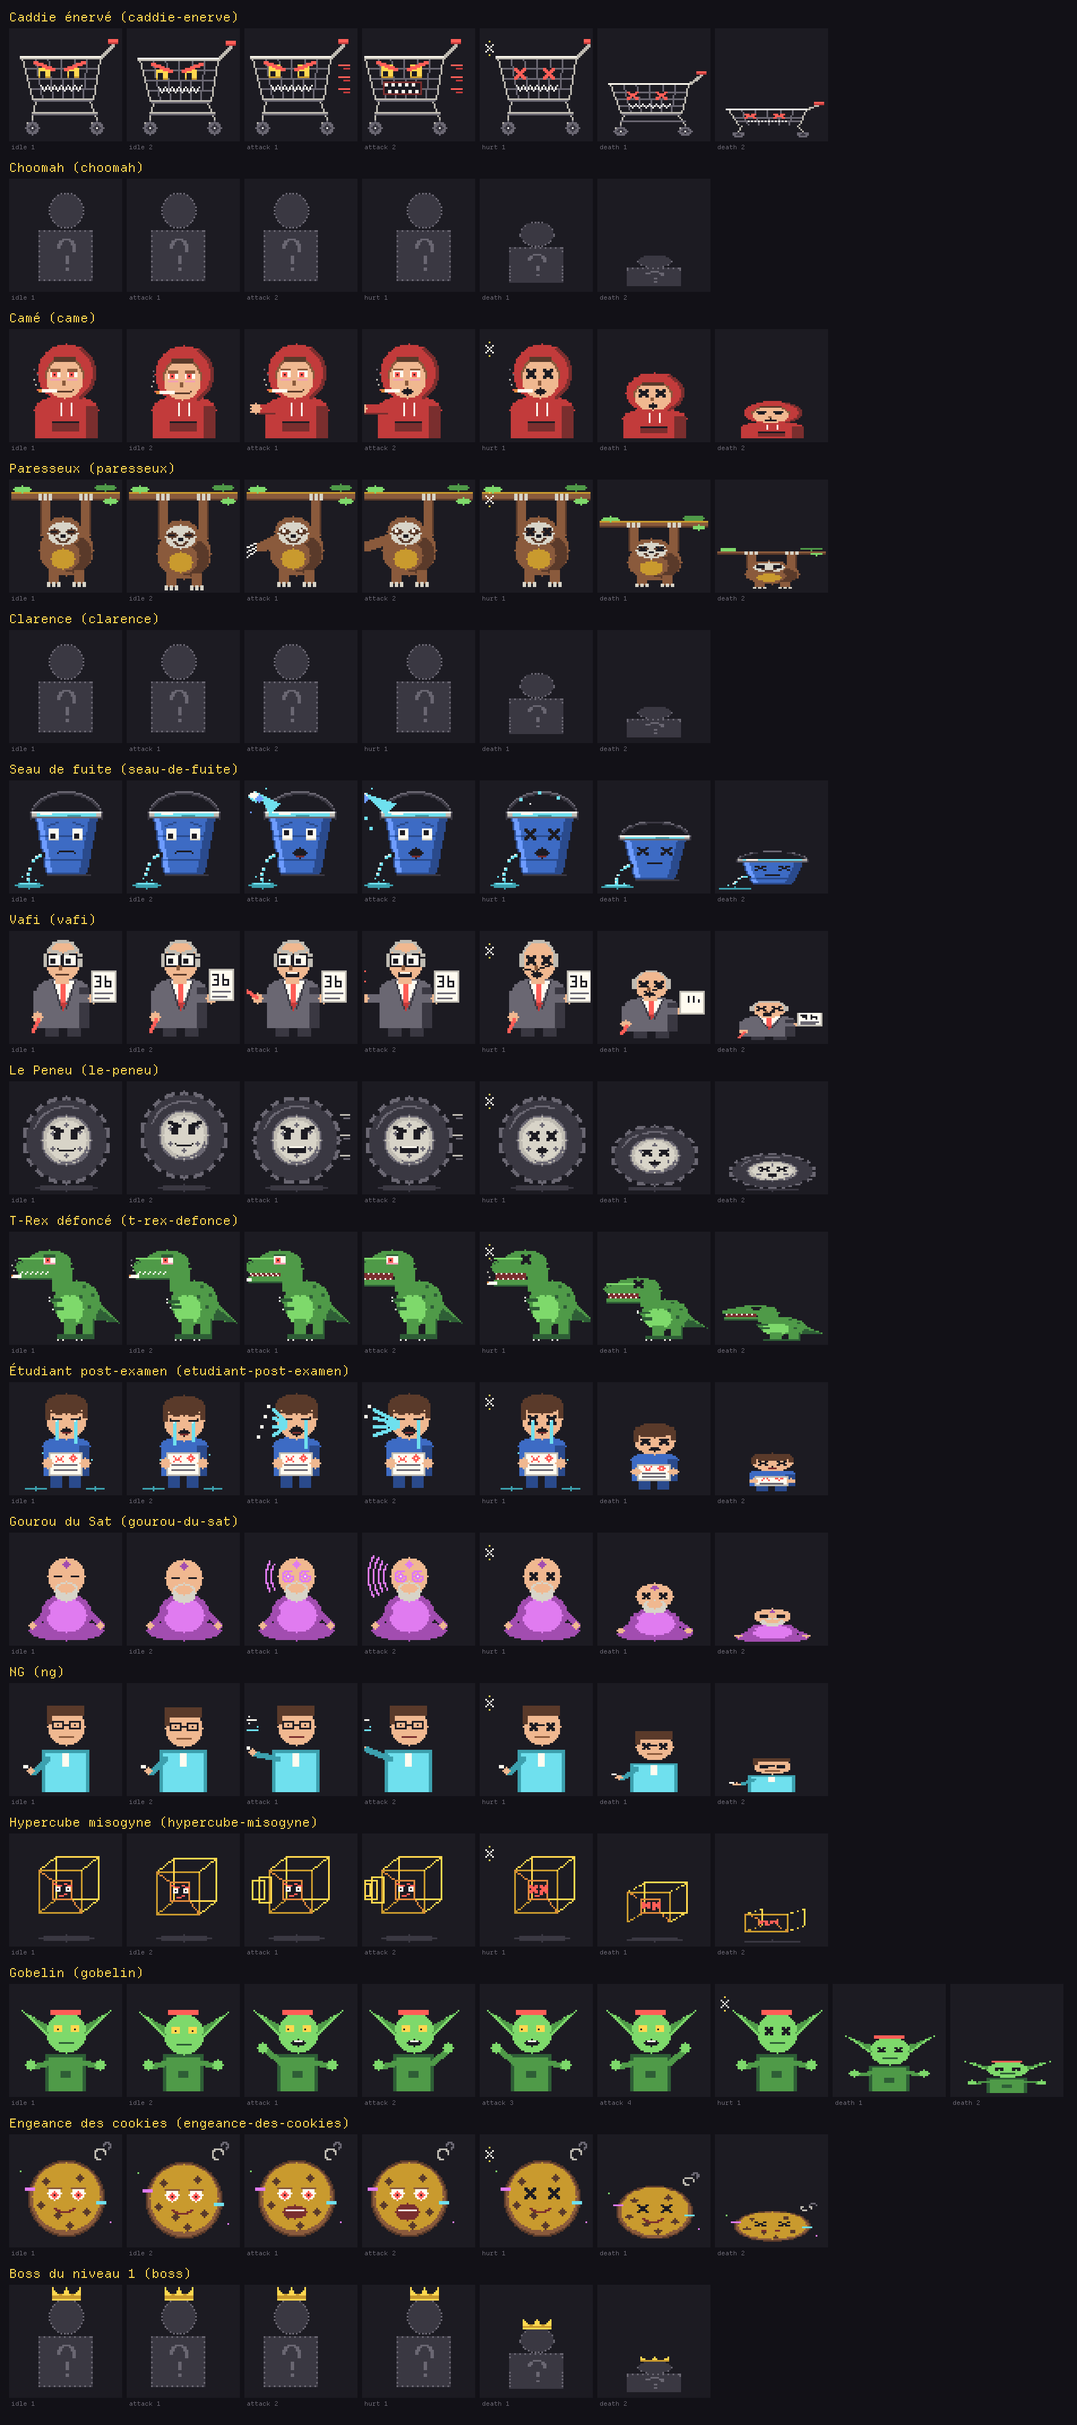
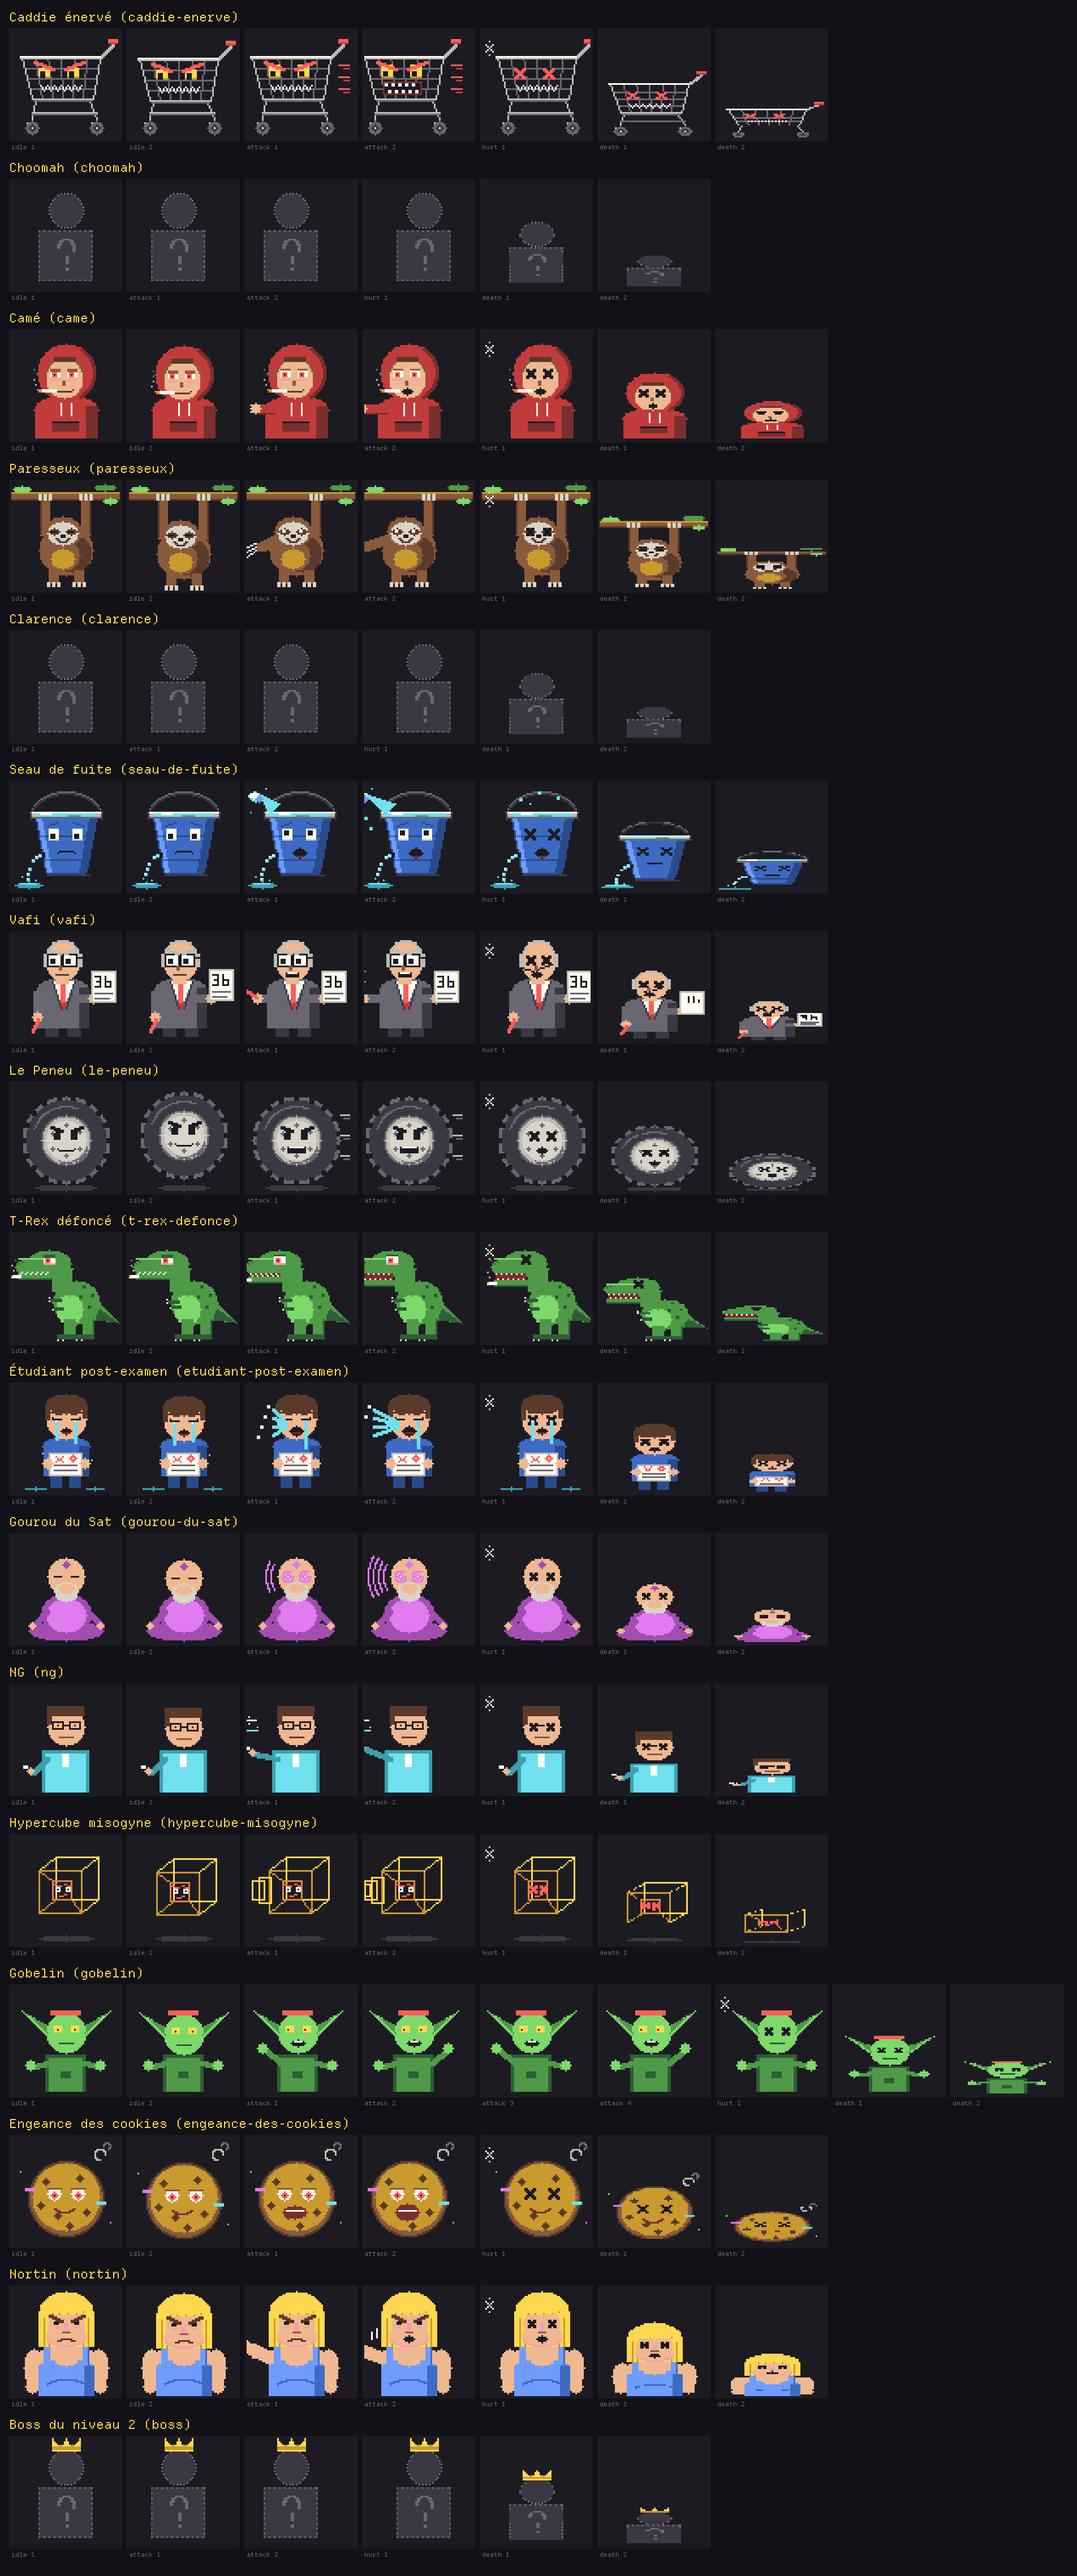
Dessine Nortin : sprite de la fenêtre et sprite ASCII
Dessin Lua dans art/tools/enemies.lua (cheveux blonds, débardeur bleu, gifle à l'attaque), exporté par Aseprite (idle, attack, hurt, death) ; sprite ASCII pour le terminal et le mode texte. Nortin utilise son propre sprite ; les boss des niveaux 2 et 3 gardent le sprite commun.

diff --git a/src/test/java/cardistry/ui/sprite/SpriteTest.java b/src/test/java/cardistry/ui/sprite/SpriteTest.java
@@ -84,7 +84,7 @@ class SpriteTest {
     @Test
     void spritesOriginauxAnimes() {
         for (String id : List.of("caddie-enerve", "came", "paresseux", "seau-de-fuite", "vafi", "le-peneu",
-                "t-rex-defonce", "etudiant-post-examen")) {
+                "t-rex-defonce", "etudiant-post-examen", "nortin")) {
             Sprite sprite = Sprites.byId(id).orElseThrow();
             assertTrue(sprite.idle().size() >= 2 && sprite.idle().size() <= 3, id + " : 2-3 frames idle");
             assertFalse(sprite.frames(Sprite.ATTACK).isEmpty(), id + " : attaque");
@@ -95,23 +95,26 @@ class SpriteTest {
     @Test
     void spritesEnAsciiPurDansLaZoneEtCouleursValides() throws IOException {
         for (Map.Entry<String, Sprite> entry : Sprites.catalog()) {
-            Sprite sprite = entry.getValue();
-            String raw = read(entry.getKey());
-            for (String line : raw.lines().toList()) {
-                if (line.startsWith("@name") || line.startsWith("@#")) {
-                    continue; // le nom peut avoir des accents : il n'est pas dessiné tel quel
-                }
-                assertTrue(line.chars().allMatch(c -> c >= 32 && c < 127), entry.getKey() + " : non ASCII : " + line);
+            assertAsciiInZoneWithValidColors(entry.getKey(), entry.getValue());
+        }
+    }
+
+    private static void assertAsciiInZoneWithValidColors(String id, Sprite sprite) throws IOException {
+        String raw = read(id);
+        for (String line : raw.lines().toList()) {
+            if (line.startsWith("@name") || line.startsWith("@#")) {
+                continue; // le nom peut avoir des accents : il n'est pas dessiné tel quel
             }
-            for (String animation : sprite.animations()) {
-                for (Sprite.Frame frame : sprite.frames(animation)) {
-                    assertTrue(frame.lines().size() <= Sprite.MAX_HEIGHT, entry.getKey() + " trop haut");
-                    assertTrue(frame.width() <= Sprite.MAX_WIDTH, entry.getKey() + " trop large");
-                    if (frame.colors() != null) {
-                        for (String colors : frame.colors()) {
-                            assertTrue(colors.chars().allMatch(c -> COLOR_LETTERS.contains((char) c)),
-                                    entry.getKey() + " : couleur inconnue : " + colors);
-                        }
+            assertTrue(line.chars().allMatch(c -> c >= 32 && c < 127), id + " : non ASCII : " + line);
+        }
+        for (String animation : sprite.animations()) {
+            for (Sprite.Frame frame : sprite.frames(animation)) {
+                assertTrue(frame.lines().size() <= Sprite.MAX_HEIGHT, id + " trop haut");
+                assertTrue(frame.width() <= Sprite.MAX_WIDTH, id + " trop large");
+                if (frame.colors() != null) {
+                    for (String colors : frame.colors()) {
+                        assertTrue(colors.chars().allMatch(c -> COLOR_LETTERS.contains((char) c)),
+                                id + " : couleur inconnue : " + colors);
                     }
                 }
             }

diff --git a/src/test/java/cardistry/model/enemy/EnemyRegistryTest.java b/src/test/java/cardistry/model/enemy/EnemyRegistryTest.java
@@ -122,7 +122,13 @@ class EnemyRegistryTest {
         assertEquals(Element.NEUTRAL, nortin.element());
         assertEquals(EnemyRank.BOSS, nortin.rank());
         assertEquals(160, nortin.maxHp(), DELTA);
-        assertEquals("boss", nortin.spriteId());
+        assertEquals("nortin", nortin.spriteId());
+    }
+
+    @Test
+    void lesBossDesNiveauxDeuxEtTroisGardentLeSpriteCommun() {
+        assertEquals("boss", create(bossId(2), 1).spriteId());
+        assertEquals("boss", create(bossId(3), 1).spriteId());
     }
 
     @Test

diff --git a/src/main/java/cardistry/model/enemy/EnemyRegistry.java b/src/main/java/cardistry/model/enemy/EnemyRegistry.java
@@ -183,7 +183,7 @@ public final class EnemyRegistry {
         elite(all, ENGEANCE, "Engeance des cookies", GLITCH, 60, engeance(), 0);
         all.put(bossId(1), () -> Enemy.builder(bossId(1), "Nortin", NEUTRAL, EnemyRank.BOSS)
         .hp(160)
-        .sprite("boss")
+        .sprite("nortin")
                 .behavior(nortin()));
         boss(all, 2, WATER, 200, 10, 22);
         boss(all, 3, NATURE, 280, 10, 22);
